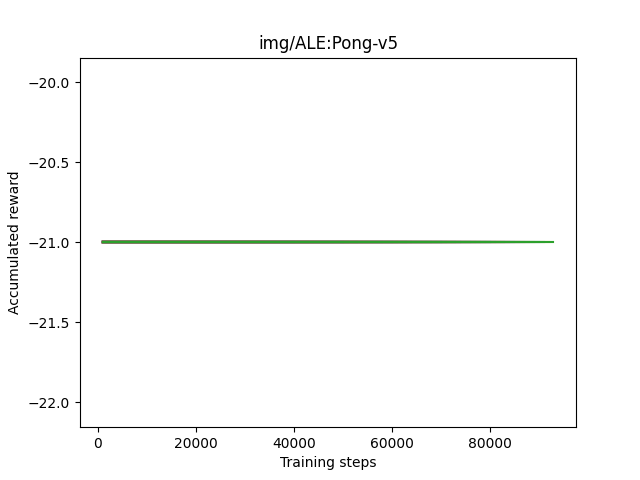
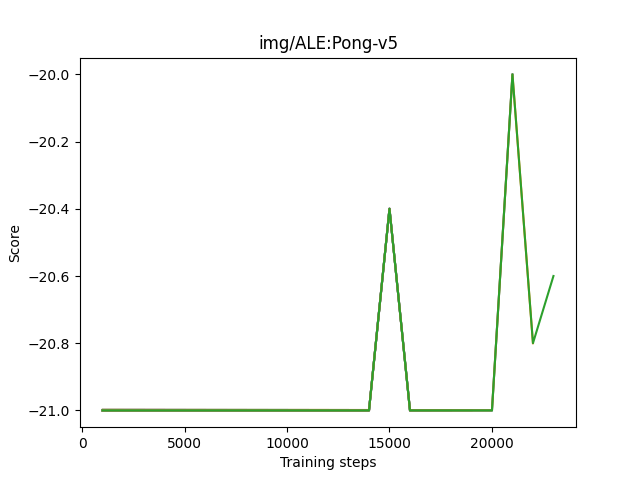
Lower learning rate

diff --git a/double_dqn.py b/double_dqn.py
@@ -179,7 +179,7 @@ class DoubleDQN:
 
         # logging info
         episode = 1
-        accum_rewards = []
+        scores = []
 
         progbar = tqdm(total=self.config.total_step)
         while self.agent.step < self.config.total_step:
@@ -228,15 +228,16 @@ class DoubleDQN:
 
                 if (self.agent.step + 1) % self.config.eval_every == 0:
                     score = self.evaluate()
-                    score.append((self.agent.step + 1, score))
+                    scores.append((self.agent.step + 1, score))
                     # save plot
-                    plot_graph(os.path.join("img", self.config.atari_id.replace('/', ':')), *zip(*accum_rewards))
+                    plot_graph(os.path.join("img", self.config.atari_id.replace('/', ':')), *zip(*scores))
 
                 self.agent.step += 1
                 progbar.update()
 
             if episode in self.config.record_episodes and self.config.record_play:
-                write_video(os.path.join("video", f"episode_{episode}.mp4"), self.env.game_play)
+                video_path = os.path.join("video", f"{self.config.atari_id.replace('/', ':')}_episode_{episode}.mp4")
+                write_video(video_path, self.env.game_play)
 
             # To make sure the model is learning
             gradient = self._gradient_norm(policy_net)

diff --git a/model.py b/model.py
@@ -12,7 +12,7 @@ class FunctionApproximation(nn.Module):
                 out_channels=32,
                 kernel_size=8,
                 stride=4,
-                # bias=False
+                bias=False
             ),
             nn.ReLU()
         )
@@ -23,7 +23,7 @@ class FunctionApproximation(nn.Module):
                 out_channels=64,
                 kernel_size=4,
                 stride=2,
-                # bias=False
+                bias=False
             ),
             nn.ReLU()
         )
@@ -34,7 +34,7 @@ class FunctionApproximation(nn.Module):
                 out_channels=64,
                 kernel_size=3,
                 stride=1,
-                # bias=False
+                bias=False
             ),
             nn.ReLU()
         )
@@ -43,14 +43,14 @@ class FunctionApproximation(nn.Module):
             nn.Linear(
                 in_features=7*7*64,
                 out_features=512,
-                # bias=False
+                bias=False
             ),
             nn.ReLU()
         )
         self.output_layer = nn.Linear(
             in_features=512,
             out_features=config.action_n,
-            # bias=False
+            bias=False
         )
     
     def forward(self, inp):

diff --git a/main.py b/main.py
@@ -12,7 +12,7 @@ def set_args():
         default="config/base.yaml",
         type=str
     )
-    args = parser.parse_args
+    args = parser.parse_args()
     return args
 
 

diff --git a/README.md b/README.md
@@ -15,7 +15,7 @@ pip install "gymnasium[atari]"
 ## Run
 ```bash
 # make adjustment to config files in config directory
-python main.py
+python main.py --config_path ./config/base.yaml
 ```
 
 ## Result
